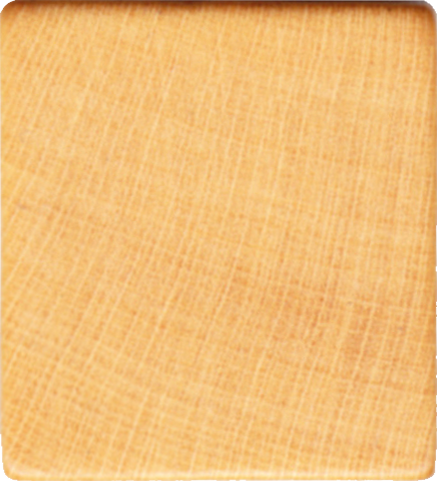
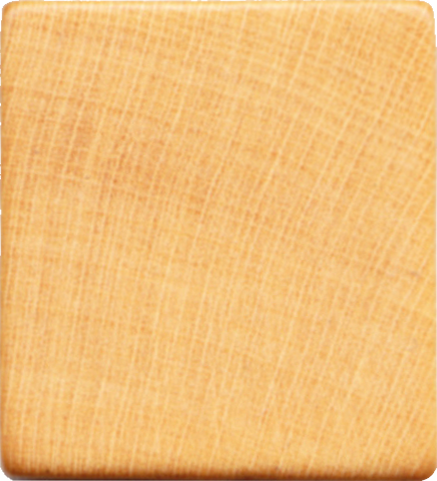
The first part of rack design.

diff --git a/Scrabble GUI/src/gameboard/Shade.java b/Scrabble GUI/src/gameboard/Shade.java
@@ -1,0 +1,53 @@
+package gameboard;
+
+import common.DTPicture;
+import common.ImageTools;
+import common.TileTransferHandler;
+import java.awt.GridLayout;
+import javax.swing.ImageIcon;
+import javax.swing.JPanel;
+
+/**
+ * 
+ * @author Arnaud Morel <a.morel@hotmail.com>
+ */
+public class Shade extends JPanel {
+
+  private JPanel JPaneShadeTile;
+  private DTPicture dticone;
+  private ImageIcon icon;
+
+  public Shade(){
+    
+    for (int i = 0; i < 7; i++) {
+      initTileImage();
+      initSquareRack();
+      setOpaque(false);
+      add(JPaneShadeTile,i);
+				}
+//    setBorder(BorderFactory.createLineBorder(Color.black));
+    setName("Shade");
+    setLayout(new java.awt.GridLayout(1, 7, 0, 0));
+    setBounds( 196, 722, 314, 37);
+    setVisible(true);
+  }
+  
+  private void initTileImage() {
+      dticone = new DTPicture(getImageShade().getImage());
+      dticone.setTransferHandler(new TileTransferHandler());
+  }
+  
+  private void initSquareRack() {
+      JPaneShadeTile = new JPanel(new GridLayout(1, 1));
+      JPaneShadeTile.add(dticone);
+      JPaneShadeTile.setOpaque(false);
+      JPaneShadeTile.setVisible(true);
+  }
+  
+  public ImageIcon getImageShade(){
+    icon = ImageTools.createImageIcon("images/Shade.png","Shade");
+    icon = new ImageIcon(ImageTools.getScaledImage(icon.getImage(), 36,
+                         ImageTools.getProportionnalHeight(icon, 37)));
+    return icon;
+  }
+}

diff --git a/Scrabble GUI/src/gameboard/MainFrame.java b/Scrabble GUI/src/gameboard/MainFrame.java
@@ -4,6 +4,7 @@ import common.LocateOfTile;
 import common.MyGlassPane;
 import java.awt.Container;
 import javax.swing.JFrame;
+import javax.swing.JPanel;
 
 /**
  *
@@ -17,6 +18,8 @@ class MainFrame {
   private Rack rack;
   private GameGrid gameGrid;
   private Menu menu;
+  private JPanel rackBackground;
+  private JPanel ShadeTile;
 
   public MainFrame()  {
     new LocateOfTile();
@@ -25,6 +28,8 @@ class MainFrame {
     rack = new Rack();
 				gameGrid = new GameGrid();
 				menu = new Menu();
+    ShadeTile = new Shade();
+    rackBackground = new RackBackground();
     initContainer();
     initFrame();
   }
@@ -33,6 +38,8 @@ class MainFrame {
     contentPane =  frame.getContentPane() ;
     contentPane.setLayout(null);
     contentPane.add(gameBoard, 0);
+    contentPane.add(rackBackground, 0);
+    contentPane.add(ShadeTile, 0);
     contentPane.add(rack, 0);
     contentPane.add(gameGrid, 0);
     contentPane.setVisible(true);
@@ -42,7 +49,7 @@ class MainFrame {
     frame.setDefaultCloseOperation(JFrame.EXIT_ON_CLOSE);
 				frame.setJMenuBar(menu.getMenu());
     frame.setSize(gameBoard.getWidth() + gameBoard.getInsets().left
-                + gameBoard.getInsets().right+15, 826);
+                + gameBoard.getInsets().right+15, 850);
     frame.setContentPane(contentPane);
     frame.setGlassPane(MyGlassPane.getInstance());
     frame.setLocationRelativeTo(null);

diff --git a/Scrabble GUI/src/gameboard/RackBackground.java b/Scrabble GUI/src/gameboard/RackBackground.java
@@ -1,0 +1,33 @@
+package gameboard;
+
+import common.ImageTools;
+import javax.swing.ImageIcon;
+import javax.swing.JLabel;
+import javax.swing.JPanel;
+
+/**
+ * 
+ * @author Arnaud Morel <a.morel@hotmail.com>
+ */
+public class RackBackground extends JPanel{
+  private ImageIcon icon;
+  
+  public RackBackground(){
+    JLabel JLabGameBoard = new JLabel(getImage());
+    setLayout(new java.awt.GridLayout(1, 1, 1, 1)); //Allow to get rid of the gap between JPanel and JLabel
+    setBounds( 0, 0, icon.getIconWidth(), icon.getIconHeight());
+    add(JLabGameBoard);
+    setBounds( 150, 714, 400, 70);
+    setVisible(true);
+//    setBorder(BorderFactory.createLineBorder(Color.black));
+    setOpaque(false);
+  }
+  
+  private ImageIcon getImage(){
+    icon = ImageTools.createImageIcon("images/Rack_empty.png","Game Grid");
+    icon = new ImageIcon(ImageTools.getScaledImage(icon.getImage(), 350,
+                         ImageTools.getProportionnalHeight(icon, 350)));
+    return icon;
+  }
+
+}

diff --git a/Scrabble GUI/src/gameboard/GameBoard.java b/Scrabble GUI/src/gameboard/GameBoard.java
@@ -14,14 +14,14 @@ public class GameBoard extends JPanel{
   private ImageIcon icon;
   
   public GameBoard(){
-    add(new JLabel(getImage()));
+    add(new JLabel(getImageGameBoard()));
     setVisible(true);
     setLayout(new java.awt.GridLayout(1, 1, 1, 1)); //Allow to get rid of the gap between JPanel and JLabel
     setBounds( 0, 0, icon.getIconWidth(), icon.getIconHeight());
   }
   
-  public ImageIcon getImage(){
-    icon = ImageTools.createImageIcon("images/Grid_72ppp.jpg","Game Grid");
+  public ImageIcon getImageGameBoard(){
+    icon = ImageTools.createImageIcon("images/Grid_72ppp.jpg","Game Board");
     icon = new ImageIcon(ImageTools.getScaledImage(icon.getImage(), 700,
                          ImageTools.getProportionnalHeight(icon, 700)));
     return icon;

diff --git a/Scrabble GUI/src/gameboard/Rack.java b/Scrabble GUI/src/gameboard/Rack.java
@@ -33,7 +33,7 @@ public class Rack extends JPanel {
 //    setBorder(BorderFactory.createLineBorder(Color.black));
     setName("Rack");
     setLayout(new java.awt.GridLayout(1, 7, 0, 0));
-    setBounds( 200, 700 + 20, sizeTile[0]*8, sizeTile[1]);
+    setBounds( 201, 700 + 20, sizeTile[0]*7+62, sizeTile[1]);
     setVisible(true);
   }
   
